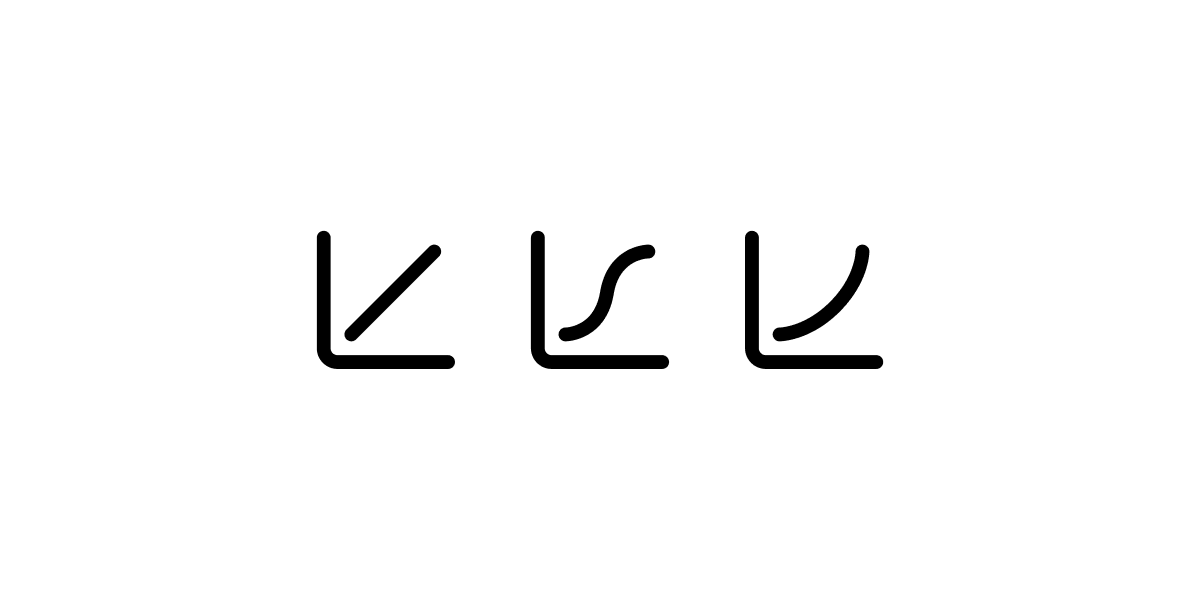
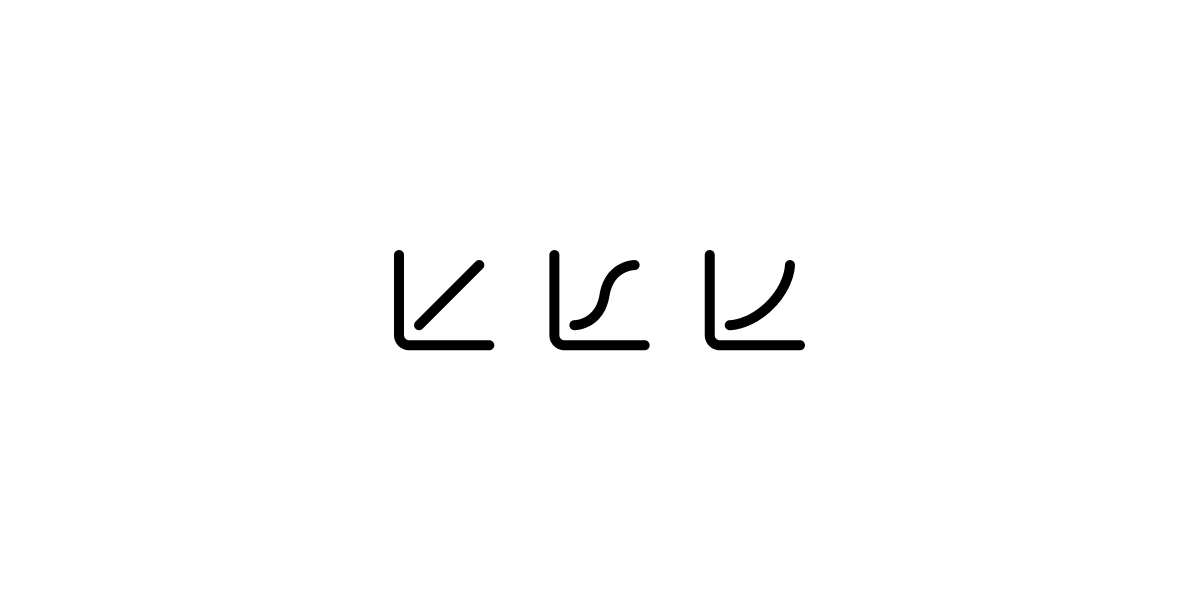
Update link size + update og.png

Changed region(s): [[0.2467, 0.39, 0.555, 0.63], [0.5858, 0.39, 0.74, 0.63]]

diff --git a/app/page.tsx b/app/page.tsx
@@ -28,7 +28,7 @@ export default function Home() {
           <h1 className="text-lg font-semibold -tracking-wide">
             Cubic Bezier Input
           </h1>
-          <p className="text-xs underline underline-offset-2 decoration-zinc-300 dark:decoration-zinc-700">
+          <p className="text-sm underline underline-offset-2 decoration-zinc-300 dark:decoration-zinc-700 transition-transform active:scale-95">
             View{" "}
             <a href="https://github.com/501A-gh/cubic-bezier-input">
               Documentation
